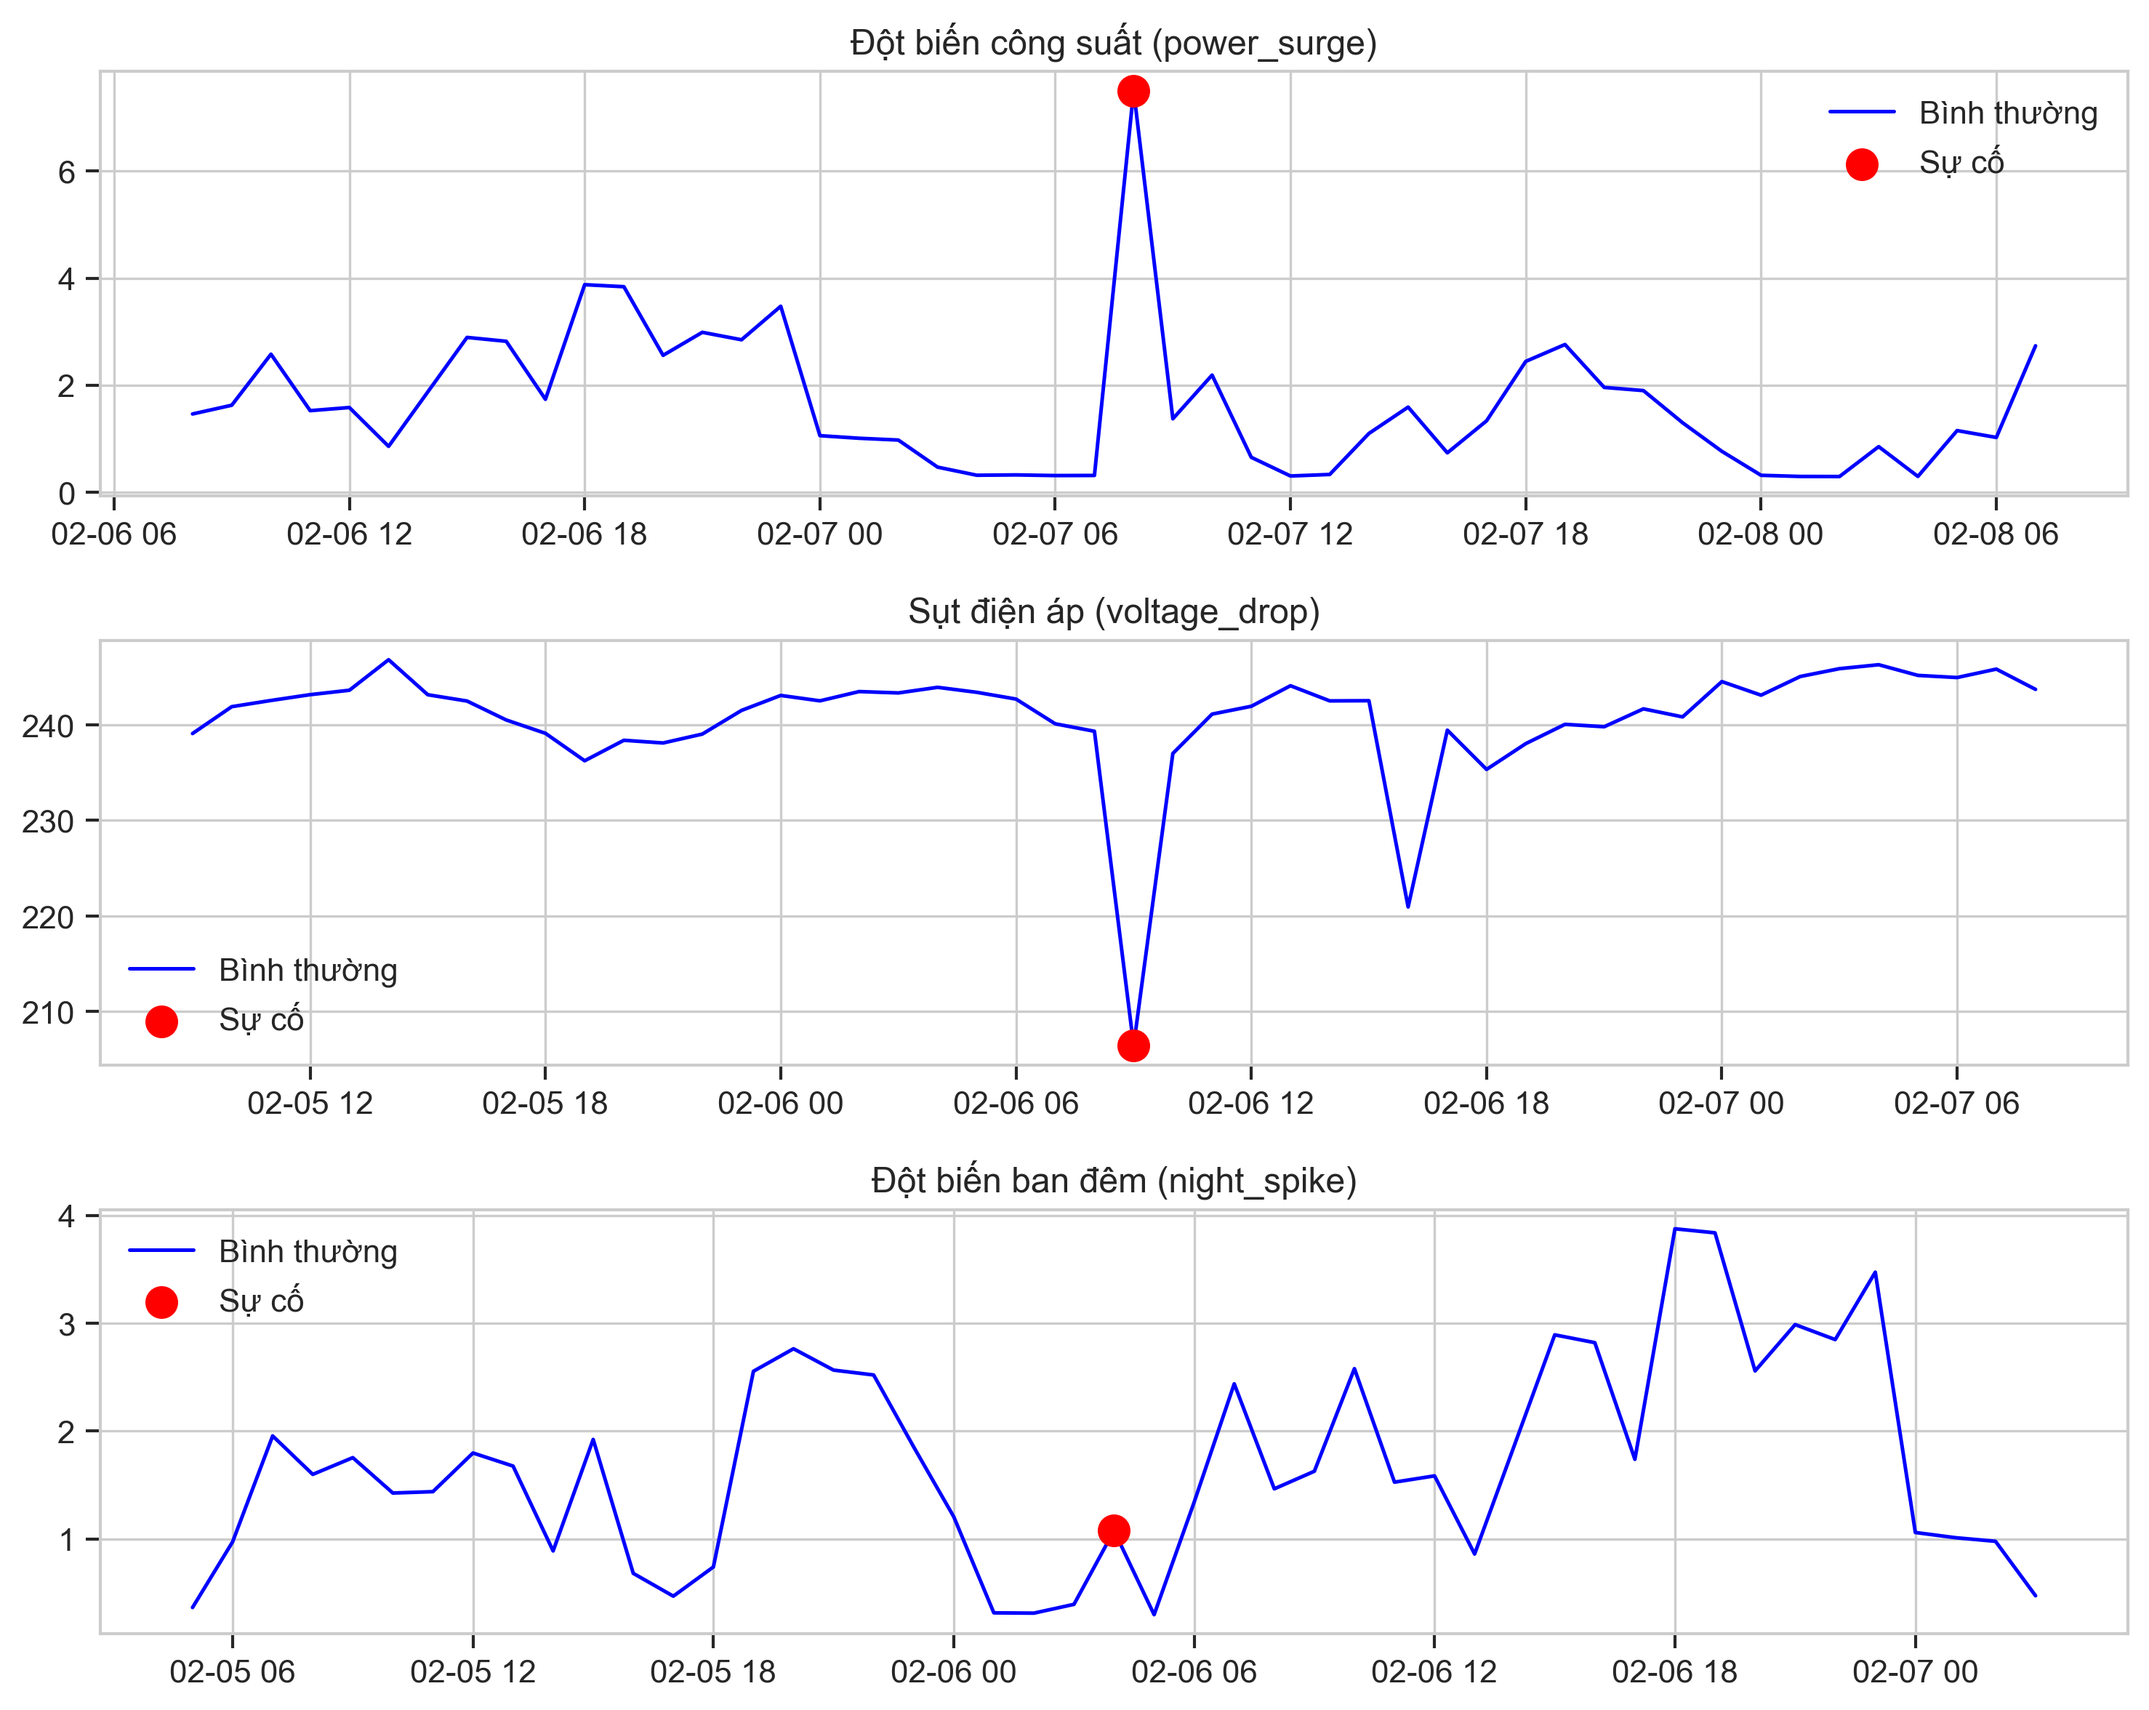
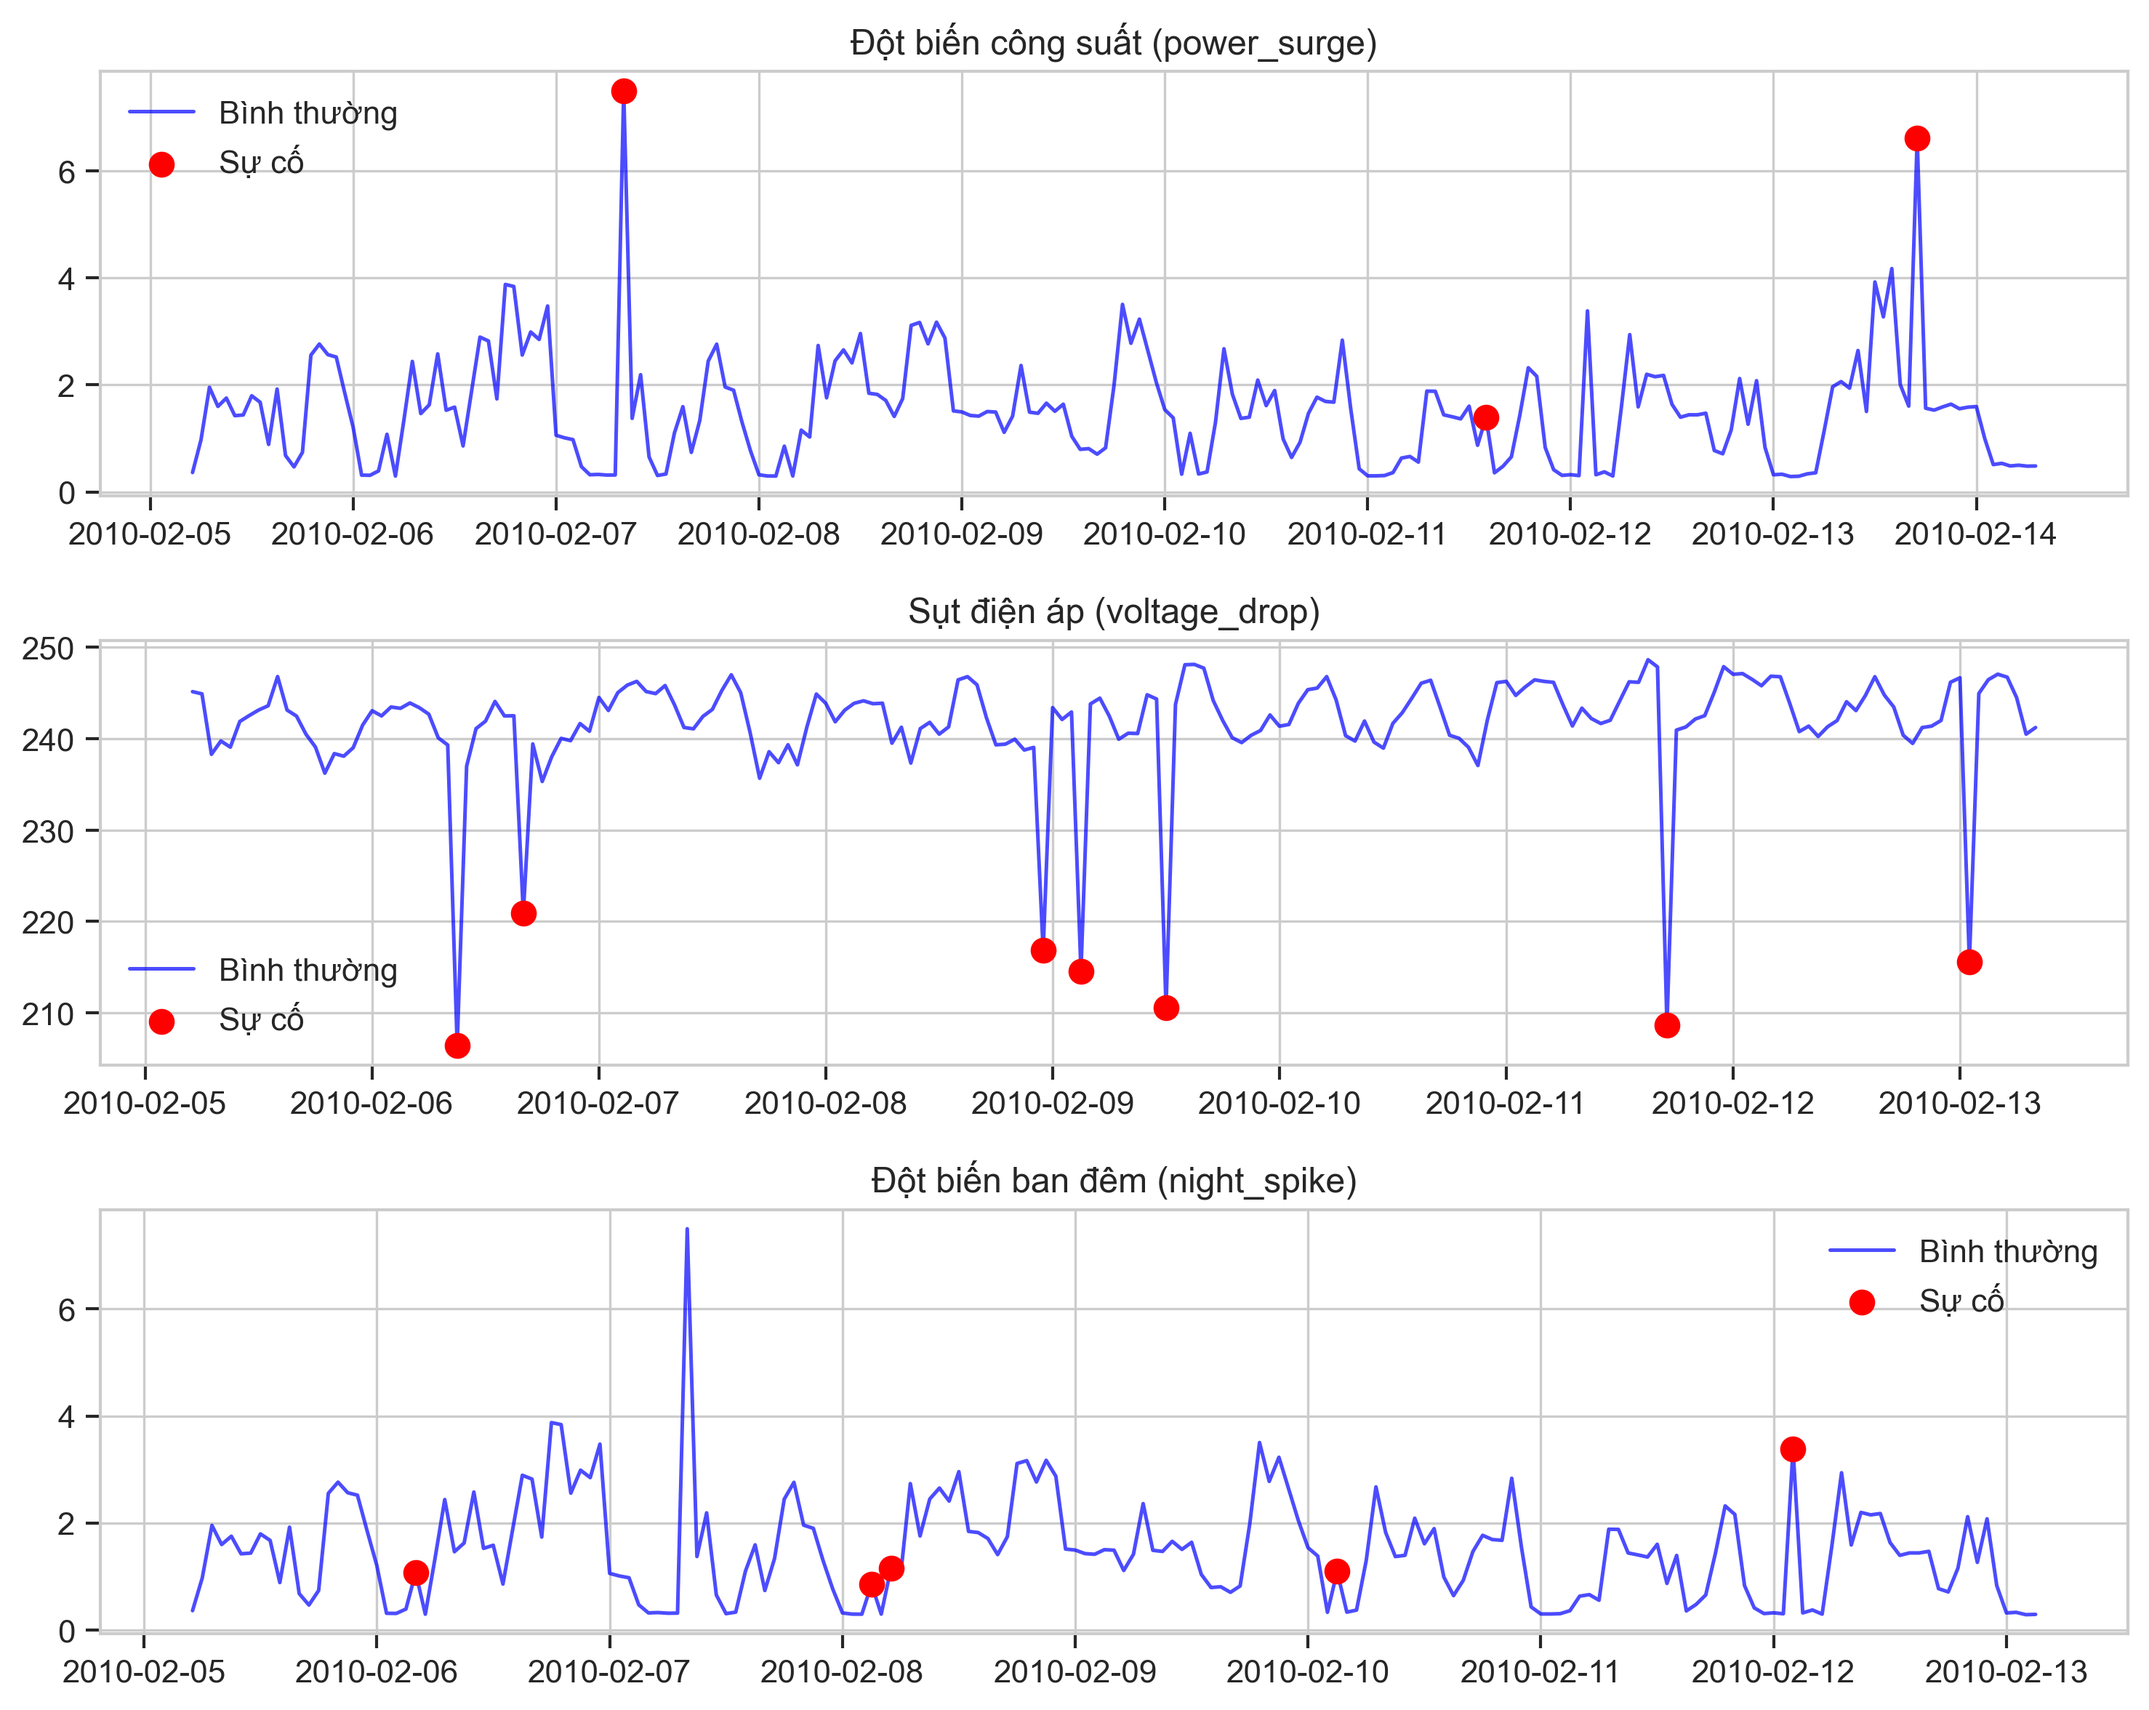
update(report): expand figure 1.1 window to 2 weeks to show multiple anomalies

diff --git a/scripts/generate_figures.py b/scripts/generate_figures.py
@@ -37,14 +37,17 @@ def generate_hinh_1_1(df_demo):
         anomalies = df_demo[df_demo['anomaly_type'] == atype]
         if not anomalies.empty:
             idx = anomalies.index[0]
-            start_idx = df_demo.index.get_loc(idx) - 24
-            end_idx = df_demo.index.get_loc(idx) + 24
+            # Mở rộng khung cửa sổ lên 2 tuần (336 giờ)
+            start_idx = df_demo.index.get_loc(idx) - 168
+            end_idx = df_demo.index.get_loc(idx) + 168
             start_idx = max(0, start_idx)
             end_idx = min(len(df_demo), end_idx)
             
             sub_df = df_demo.iloc[start_idx:end_idx]
-            ax.plot(sub_df.index, sub_df[col], color='blue', label='Bình thường')
-            ax.scatter([idx], [df_demo.loc[idx, col]], color='red', s=100, label='Sự cố', zorder=5)
+            window_anomalies = sub_df[sub_df['anomaly_type'] == atype]
+            
+            ax.plot(sub_df.index, sub_df[col], color='blue', label='Bình thường', alpha=0.7)
+            ax.scatter(window_anomalies.index, window_anomalies[col], color='red', s=60, label='Sự cố', zorder=5)
             ax.set_title(title)
             ax.legend()
     save_fig("Hinh_1.1_MinhHoa_3_Loai_SuCo.png")
